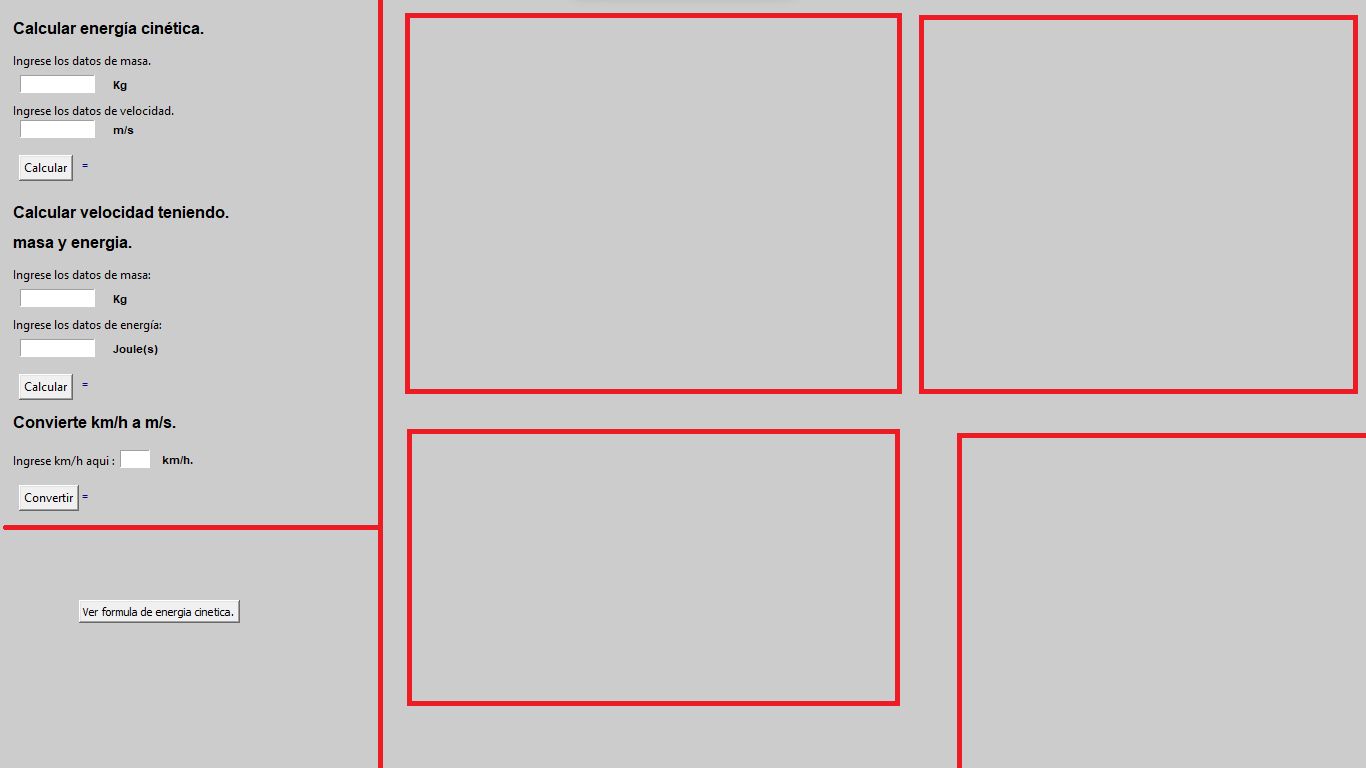
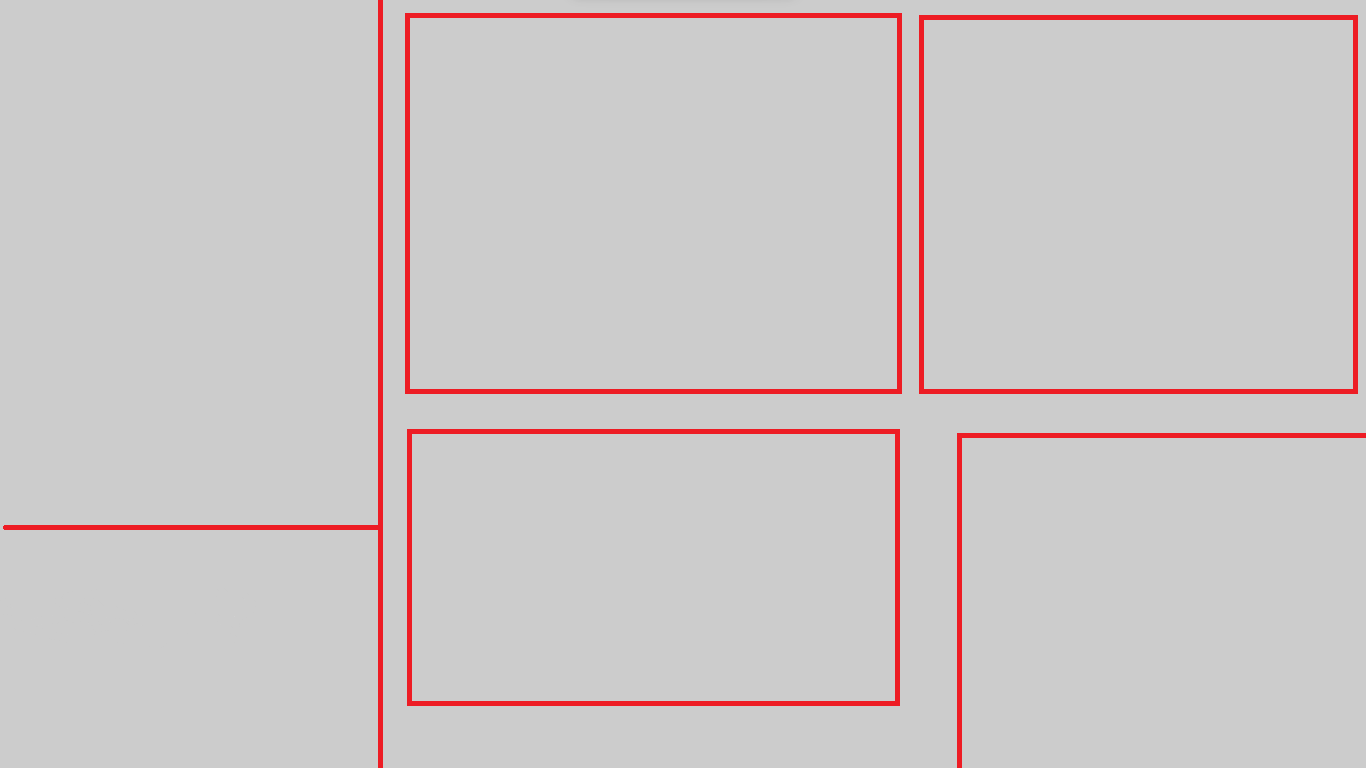
Fondo reparado

Changed region(s): [[0.0, 0.0312, 0.1845, 0.6875], [0.0615, 0.7812, 0.1845, 0.8125]]

diff --git a/Profisica/COdigo y grafico en proceso.py b/Profisica/COdigo y grafico en proceso.py
@@ -53,7 +53,7 @@ window.title("Cálculo de Energía Cinética")
 window.attributes('-fullscreen', True)  # Ejecutar en pantalla completa
 window.configure(bg="#CCCCCC")  # Establece el color de fondo en gris
 
-fondo = Image.open("Fondouwu.png")
+fondo = Image.open("fondouwu.png")
 fondo = fondo.resize((window.winfo_screenwidth(), window.winfo_screenheight()))
 fondo_tk = ImageTk.PhotoImage(fondo)
 
